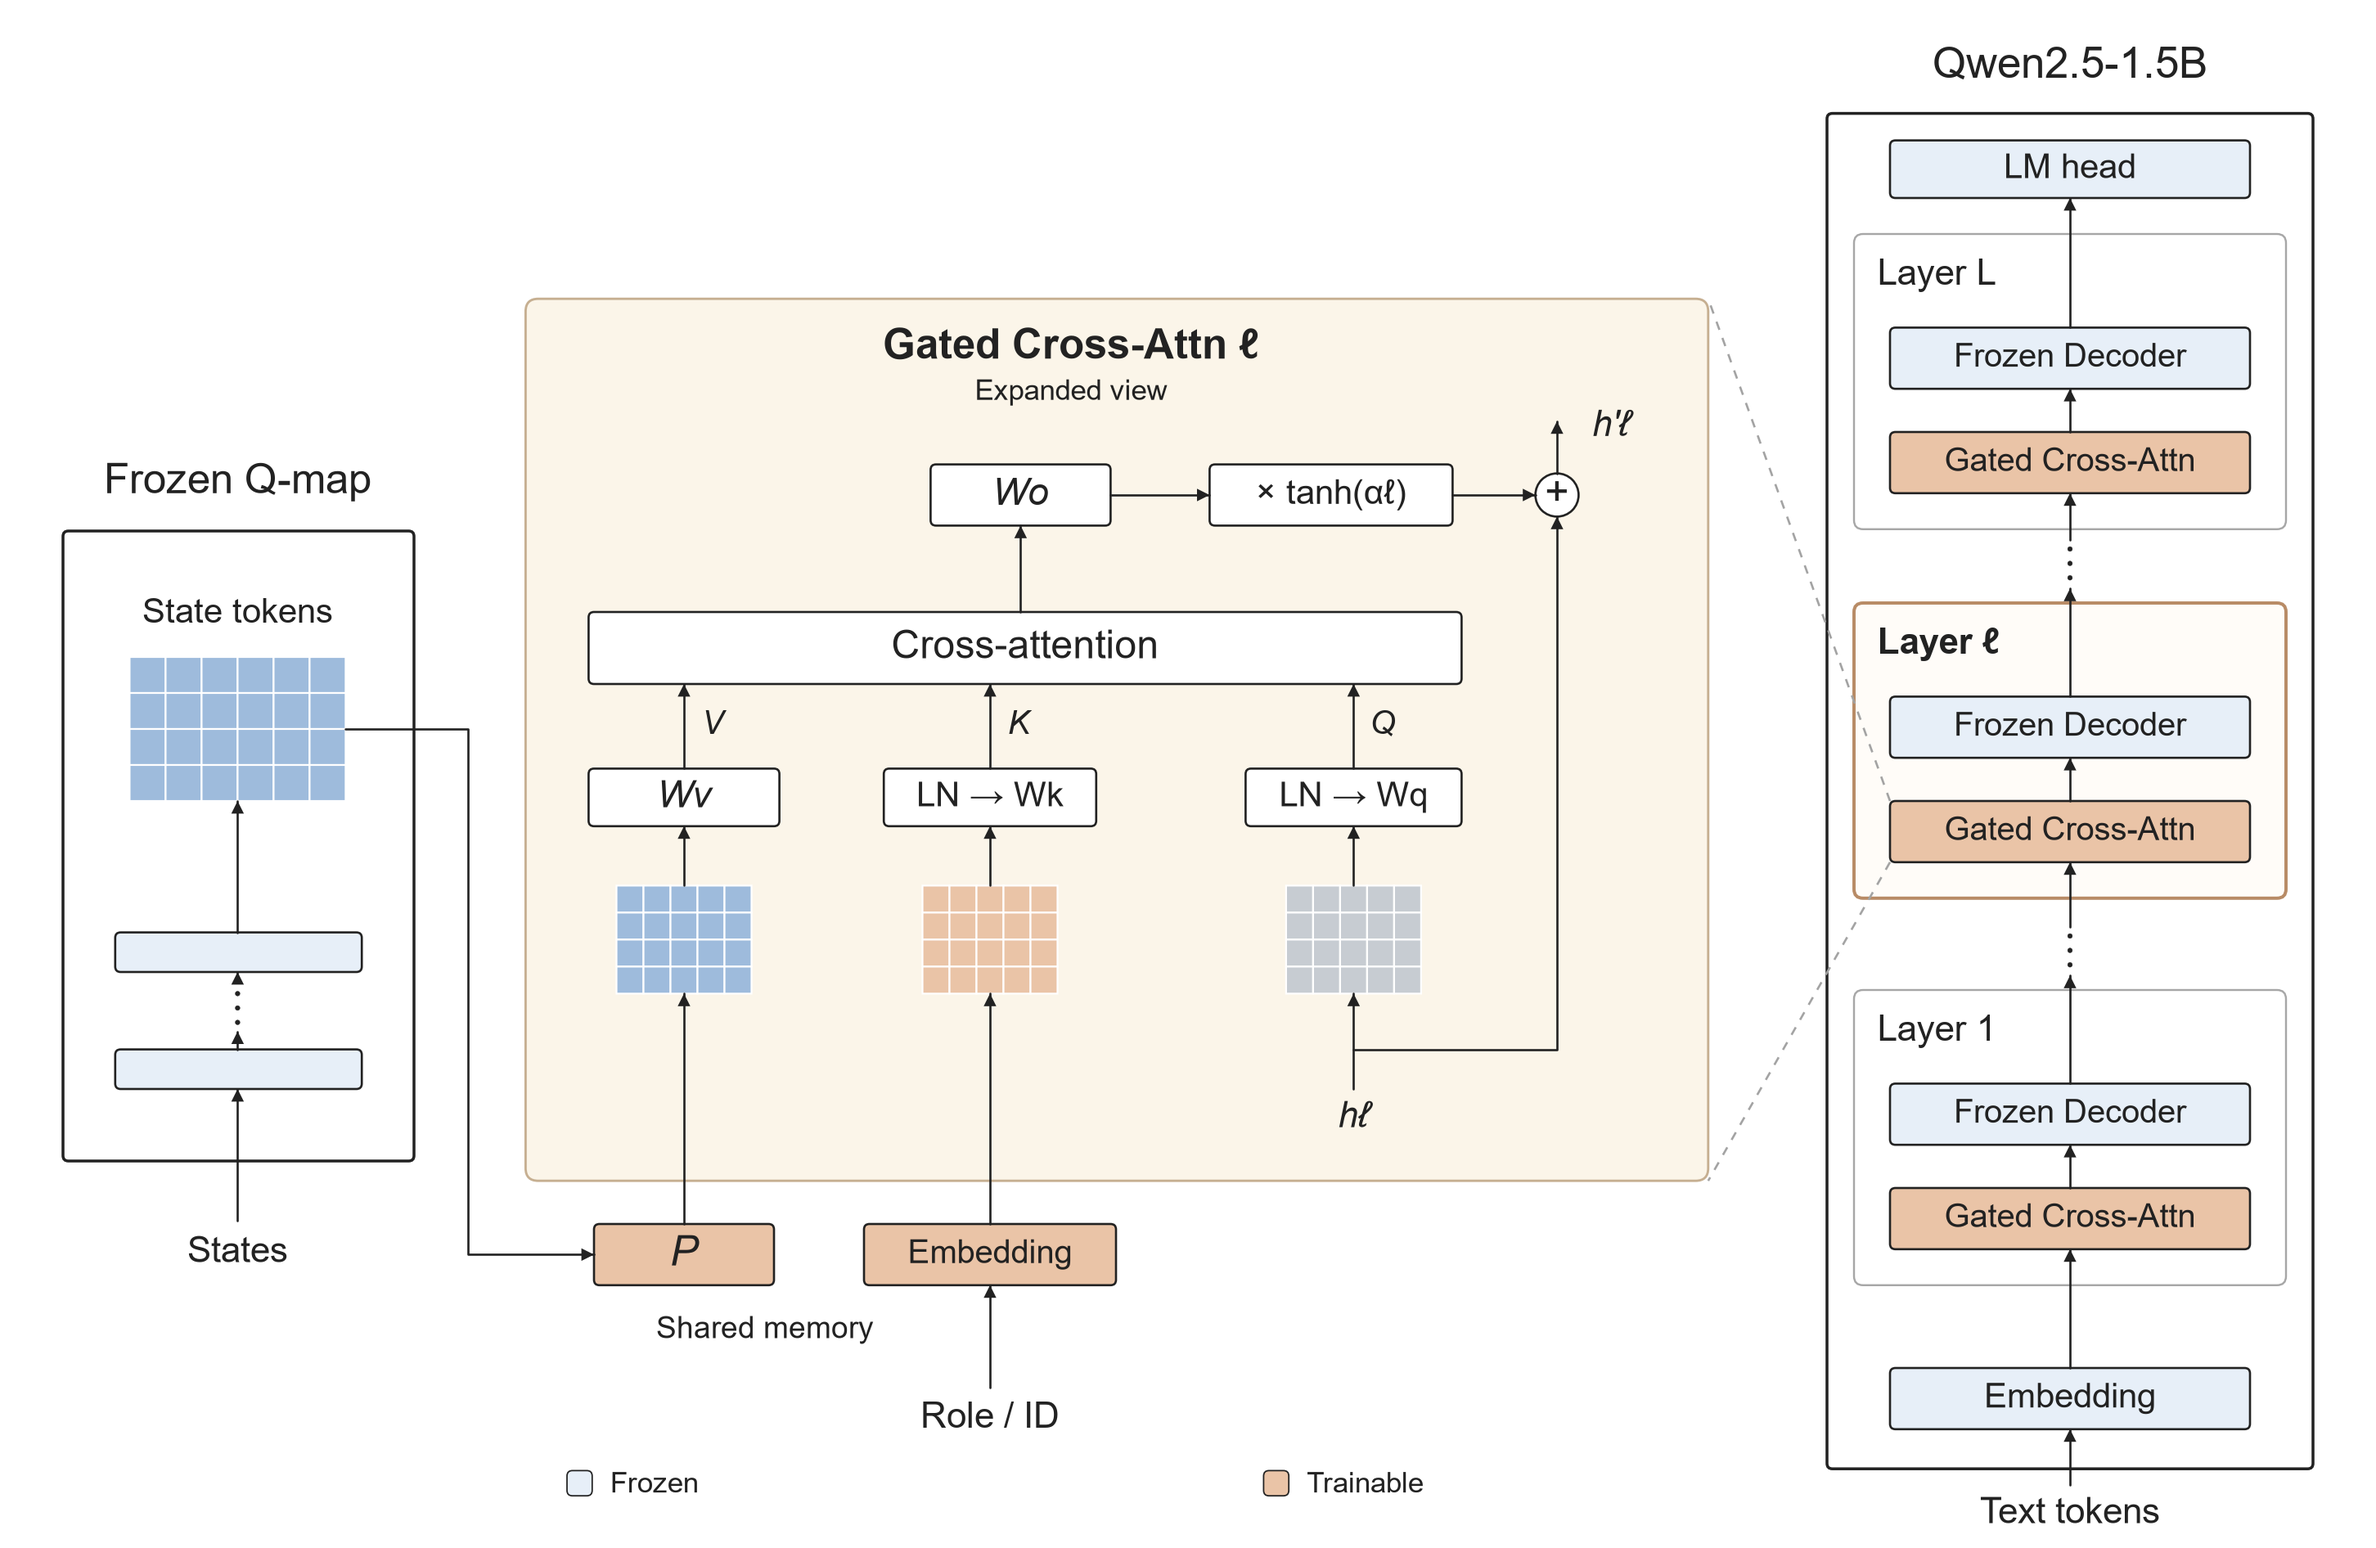
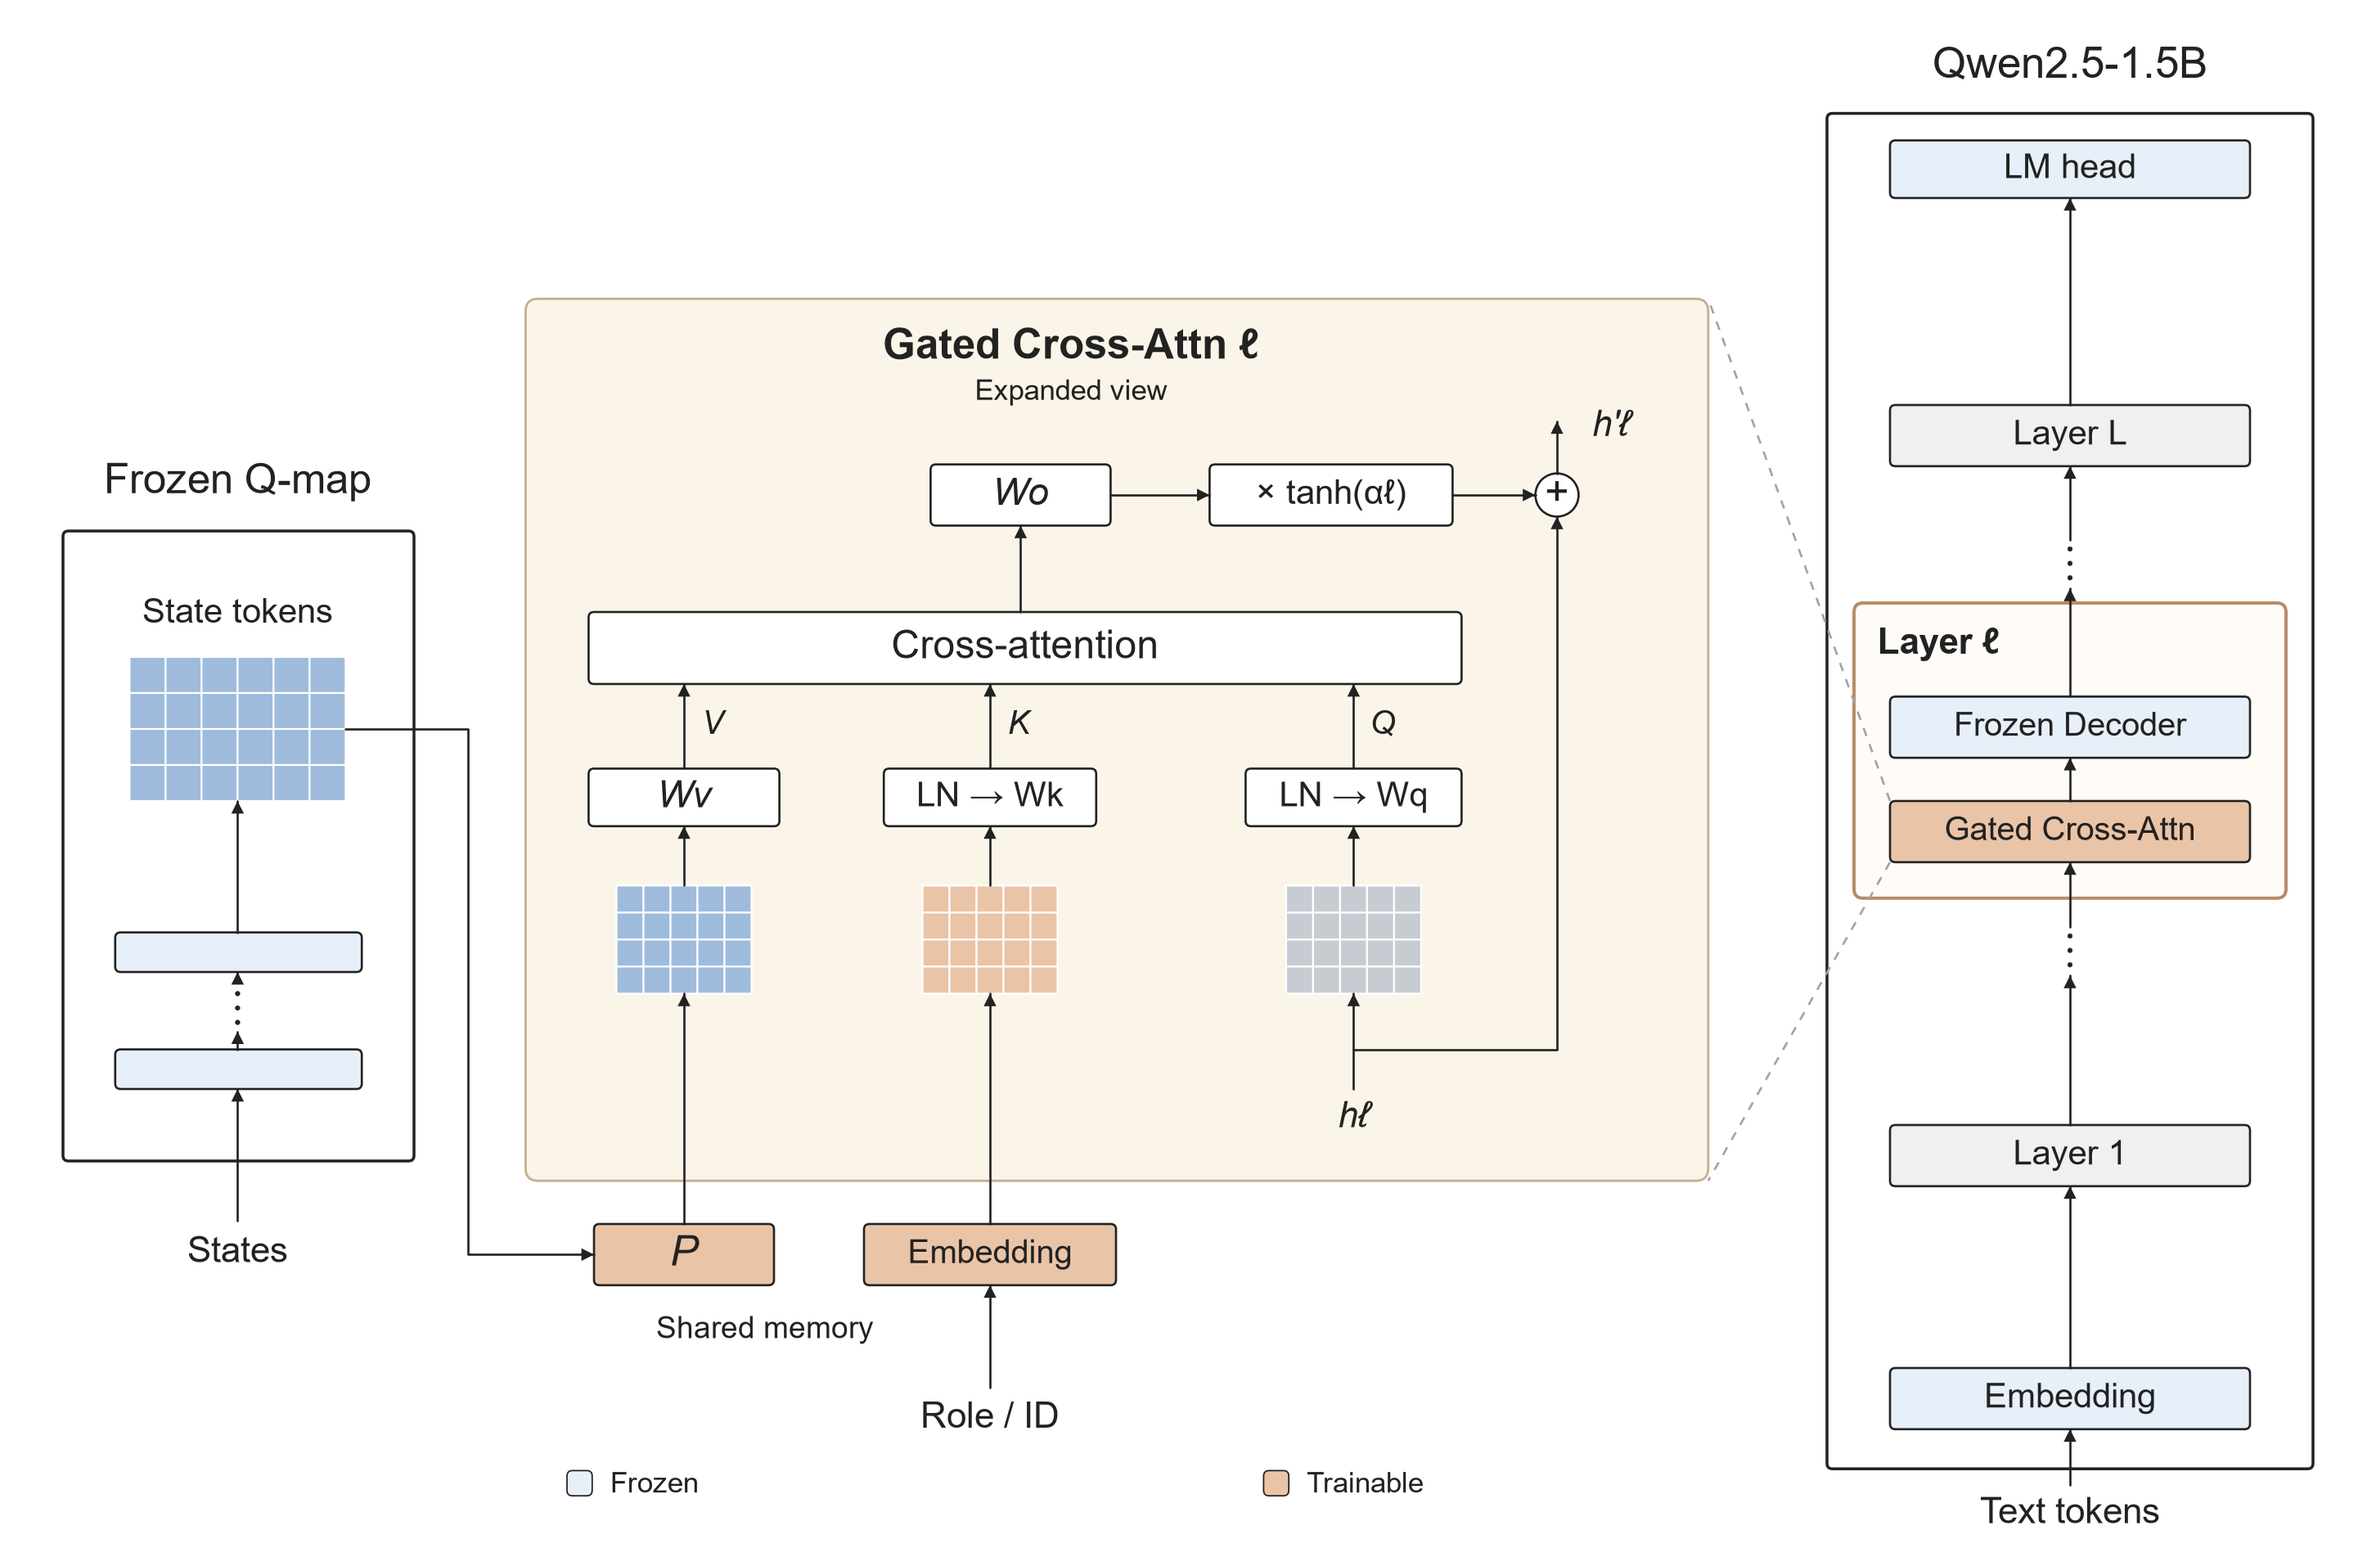
Simplify architecture figure while preserving the expanded decoder layer

diff --git a/experiments/flamingo_map_reader/src/plot_model_architecture.py b/experiments/flamingo_map_reader/src/plot_model_architecture.py
@@ -103,8 +103,8 @@ class Drawing:
 
 def main():
     d = Drawing()
-    # The right stack contains complete augmented layers. The expanded middle
-    # view is the selected orange component, not an additional processing path.
+    # Only the selected complete layer is expanded in the right stack. The
+    # middle view magnifies its orange component, not another processing path.
     d.rect(1015, 63, 270, 753, width=1.6)
     d.text(1150, 37, "Qwen2.5-1.5B", 24)
     d.block(1050, 78, 200, 32, "LM head", BLUE_LIGHT)
@@ -118,18 +118,18 @@ def main():
         d.block(1050, y+110, 200, 34, "Gated Cross-Attn", PEACH, size=18)
         d.arrow([(1150, y+110), (1150, y+86)])
 
-    layer(130, "Layer L")
+    d.block(1050, 225, 200, 34, "Layer L", "#EEF0F2")
     layer(335, "Layer ℓ", selected=True)
-    layer(550, "Layer 1")
-    d.arrow([(1150, 182), (1150, 110)])
+    d.block(1050, 625, 200, 34, "Layer 1", "#EEF0F2")
+    d.arrow([(1150, 225), (1150, 110)])
     d.arrow([(1150, 387), (1150, 327)])
     d.dots(1150, 313)
-    d.arrow([(1150, 300), (1150, 274)])
-    d.arrow([(1150, 602), (1150, 542)])
+    d.arrow([(1150, 300), (1150, 259)])
+    d.arrow([(1150, 625), (1150, 542)])
     d.dots(1150, 528)
     d.arrow([(1150, 515), (1150, 479)])
     d.block(1050, 760, 200, 34, "Embedding", BLUE_LIGHT)
-    d.arrow([(1150, 760), (1150, 694)])
+    d.arrow([(1150, 760), (1150, 659)])
     d.text(1150, 841, "Text tokens", 20)
     d.arrow([(1150, 825), (1150, 794)])
 
